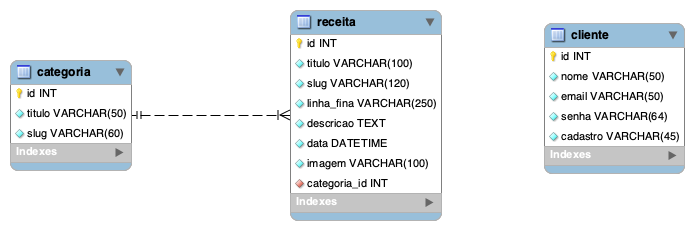
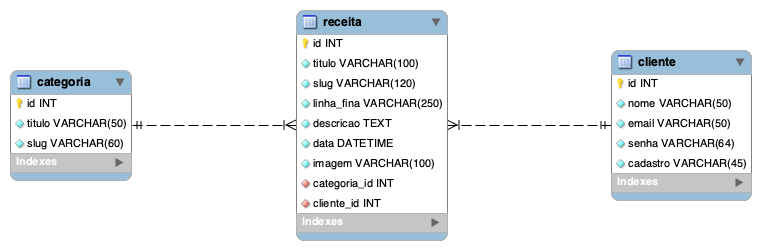
Atualizei o banco de dados e implementei a função de editar e excluir receita somente pelo cliente que publicou

Changed region(s): [[0.0, 0.0304, 0.9986, 0.9739], [0.7867, 0.0913, 0.9986, 0.3652]]

diff --git a/app/site/model/ReceitaModel.php b/app/site/model/ReceitaModel.php
@@ -16,7 +16,7 @@ class ReceitaModel {
 
     public function inserir(Receita $receita) {
 
-        $sql = 'INSERT INTO receita (titulo, slug, linha_fina, descricao, data, imagem, categoria_id) VALUES (:t, :s, :l, :d, :dt, :i, :cid)';
+        $sql = 'INSERT INTO receita (titulo, slug, linha_fina, descricao, data, imagem, categoria_id, cliente_id) VALUES (:t, :s, :l, :d, :dt, :i, :cid, :lid)';
         $params = [
             ':t' => $receita->getTitulo(),
             //':s' => gerarSlug($receita->getTitulo()),
@@ -25,7 +25,8 @@ class ReceitaModel {
             ':d' => $receita->getDescricao(),
             ':dt' => $receita->getData(),
             ':i' => $receita->getImagem(),
-            ':cid' => $receita->getCategoriaId()
+            ':cid' => $receita->getCategoriaId(),
+            ':lid' => $receita->getClienteId()
         ];
 
         if (!$this->pdo->executeNonQuery($sql, $params))
@@ -37,7 +38,7 @@ class ReceitaModel {
 
     public function alterar(Receita $receita) {
 
-        $sql = 'UPDATE receita SET titulo = :t, slug = :s, linha_fina = :l, descricao = :d, imagem = :i, categoria_id = :cid WHERE id = :id';
+        $sql = 'UPDATE receita SET titulo = :t, slug = :s, linha_fina = :l, descricao = :d, imagem = :i, categoria_id = :cid, cliente_id = :lid WHERE id = :id';
         $params = [
             ':id' => $receita->getId(),
             ':t' => $receita->getTitulo(),
@@ -45,7 +46,8 @@ class ReceitaModel {
             ':l' => $receita->getLinhaFina(),
             ':d' => $receita->getDescricao(),
             ':i' => $receita->getImagem(),
-            ':cid' => $receita->getCategoriaId()
+            ':cid' => $receita->getCategoriaId(),
+            ':lid' => $receita->getClienteId()
         ];
 
         return $this->pdo->executeNonQuery($sql, $params);
@@ -54,7 +56,7 @@ class ReceitaModel {
 
     public function lerPorId(int $receitaId) {
 
-        $sql = 'SELECT r.id, r.titulo, r.slug, r.linha_fina, r.descricao, r.data, r.imagem, r.categoria_id, c.titulo AS categoria FROM receita r INNER JOIN categoria c ON r.categoria_id = c.id WHERE r.id = :id';
+        $sql = 'SELECT r.id, r.titulo, r.slug, r.linha_fina, r.descricao, r.data, r.imagem, r.categoria_id, r.cliente_id, c.titulo AS categoria, l.nome, l.email, l.cadastro FROM receita r INNER JOIN categoria c ON r.categoria_id = c.id INNER JOIN cliente l ON l.id = r.cliente_id WHERE r.id = :id';
         $param = [
             ':id' => $receitaId
         ];
@@ -66,7 +68,7 @@ class ReceitaModel {
 
     public function lerPorSlug(string $slug) {
 
-        $sql = 'SELECT r.id, r.titulo, r.slug, r.linha_fina, r.descricao, r.data, r.imagem, r.categoria_id, c.titulo AS categoria FROM receita r INNER JOIN categoria c ON r.categoria_id = c.id WHERE r.slug = :s';
+        $sql = 'SELECT r.id, r.titulo, r.slug, r.linha_fina, r.descricao, r.data, r.imagem, r.categoria_id, r.cliente_id, c.titulo AS categoria, l.nome, l.email, l.cadastro FROM receita r INNER JOIN categoria c ON r.categoria_id = c.id INNER JOIN cliente l ON r.cliente_id = l.id WHERE r.slug = :s';
         $param = [
             ':s' => $slug
         ];
@@ -78,7 +80,7 @@ class ReceitaModel {
 
     public function lerUltimos($limit = 10) {
 
-        $sql = 'SELECT r.id, r.titulo, r.slug, r.linha_fina, r.descricao, r.data, r.imagem, r.categoria_id, c.titulo AS categoria FROM receita r INNER JOIN categoria c ON c.id = r.categoria_id ORDER BY r.data DESC LIMIT :l';
+        $sql = 'SELECT r.id, r.titulo, r.slug, r.linha_fina, r.descricao, r.data, r.imagem, r.categoria_id, r.cliente_id, c.titulo AS categoria FROM receita r INNER JOIN categoria c ON c.id = r.categoria_id ORDER BY r.data DESC LIMIT :l';
         $param = [
             ':l' => $limit
         ];
@@ -98,7 +100,7 @@ class ReceitaModel {
 
     public function lerPorCategoriaLimit(int $categoriaId, int $limit = 4) {
 
-        $sql = 'SELECT r.id, r.titulo, r.slug, r.linha_fina, r.descricao, r.data, r.imagem, r.categoria_id, c.titulo AS categoria FROM receita r INNER JOIN categoria c ON c.id = r.categoria_id WHERE r.categoria_id = :cid ORDER BY r.data DESC LIMIT :l';
+        $sql = 'SELECT r.id, r.titulo, r.slug, r.linha_fina, r.descricao, r.data, r.imagem, r.categoria_id, r.cliente_id, c.titulo AS categoria FROM receita r INNER JOIN categoria c ON c.id = r.categoria_id WHERE r.categoria_id = :cid ORDER BY r.data DESC LIMIT :l';
         $params = [
             ':cid' => $categoriaId,
             ':l' => $limit
@@ -119,7 +121,7 @@ class ReceitaModel {
 
     public function lerTodosPorCategoria(int $categoriaId) {
 
-        $sql = 'SELECT r.id, r.titulo, r.slug, r.linha_fina, r.descricao, r.data, r.imagem, r.categoria_id, c.titulo AS categoria FROM receita r INNER JOIN categoria c ON c.id = r.categoria_id WHERE r.categoria_id = :cid ORDER BY r.data DESC';
+        $sql = 'SELECT r.id, r.titulo, r.slug, r.linha_fina, r.descricao, r.data, r.imagem, r.categoria_id, r.cliente_id, c.titulo AS categoria FROM receita r INNER JOIN categoria c ON c.id = r.categoria_id WHERE r.categoria_id = :cid ORDER BY r.data DESC';
         $param = [
             ':cid' => $categoriaId
         ];
@@ -137,9 +139,29 @@ class ReceitaModel {
 
     }
 
+    public function lerTodosPorCliente(int $clienteId) {
+
+        $sql = 'SELECT r.id, r.titulo, r.slug, r.linha_fina, r.descricao, r.data, r.imagem, r.categoria_id, r.cliente_id, c.titulo AS categoria, l.nome, l.email, l.cadastro FROM receita r INNER JOIN categoria c ON c.id = r.categoria_id INNER JOIN cliente l ON l.id = r.cliente_id WHERE r.cliente_id = :lid ORDER BY r.data DESC';
+        $param = [
+            ':lid' => $clienteId
+        ];
+        $dt = $this->pdo->executeQuery($sql, $param);
+
+        $lista = [];
+
+        foreach ($dt as $dr) {
+
+            $lista[] = $this->collection($dr);
+
+        }
+
+        return $lista;
+
+    }
+
     public function pesquisar(string $termo) {
 
-        $sql = 'SELECT r.id, r.titulo, r.slug, r.linha_fina, r.descricao, r.data, r.imagem, r.categoria_id, c.titulo AS categoria FROM receita r INNER JOIN categoria c ON c.id = r.categoria_id WHERE UPPER(r.titulo) LIKE :t OR UPPER(r.linha_fina) LIKE :l ORDER BY r.titulo ASC';
+        $sql = 'SELECT r.id, r.titulo, r.slug, r.linha_fina, r.descricao, r.data, r.imagem, r.categoria_id, r.cliente_id, c.titulo AS categoria FROM receita r INNER JOIN categoria c ON c.id = r.categoria_id WHERE UPPER(r.titulo) LIKE :t OR UPPER(r.linha_fina) LIKE :l ORDER BY r.titulo ASC';
         $params = [
             ':t' => strtoupper("%". $termo . "%"), //"%{$termo}%"
             ':l' => strtoupper("%". $termo . "%") //"%{$termo}%"
@@ -160,7 +182,7 @@ class ReceitaModel {
 
     public function lerTodos() {
 
-        $sql = 'SELECT r.id, r.titulo, r.slug, r.linha_fina, r.descricao, r.data, r.imagem, r.categoria_id, c.titulo AS categoria FROM receita r INNER JOIN categoria c ON r.categoria_id = c.id ORDER BY r.titulo ASC';
+        $sql = 'SELECT r.id, r.titulo, r.slug, r.linha_fina, r.descricao, r.data, r.imagem, r.categoria_id, r.cliente_id, c.titulo AS categoria FROM receita r INNER JOIN categoria c ON r.categoria_id = c.id ORDER BY r.titulo ASC';
         $dt = $this->pdo->executeQuery($sql);
         $lista = [];
 
@@ -186,6 +208,10 @@ class ReceitaModel {
         $receita->setImagem($arr['imagem'] ?? null);
         $receita->setCategoria($arr['categoria'] ?? null);
         $receita->setCategoriaId($arr['categoria_id'] ?? null);
+        $receita->setClienteId($arr['cliente_id'] ?? null);
+        $receita->setClienteNome($arr['nome'] ?? null);
+        $receita->setClienteEmail($arr['email'] ?? null);
+        $receita->setClienteCadastro($arr['cadastro'] ?? null);
         
         return $receita;
 

diff --git a/app/site/entities/Receita.php b/app/site/entities/Receita.php
@@ -13,6 +13,10 @@ class Receita {
     private $data;
     private $imagem;
     private $categoriaId;
+    private $clienteId;
+    private $clienteNome;
+    private $clienteEmail;
+    private $clienteCadastro;
 
     // Métodos acessores e modificadores
     public function getId() {
@@ -120,6 +124,54 @@ class Receita {
     public function setCategoriaId($id) {
 
         $this->categoriaId = $id;
+    
+    }
+
+    public function getClienteId() {
+
+        return $this->clienteId;
+    
+    }
+
+    public function setClienteId($id) {
+
+        $this->clienteId = $id;
+    
+    }
+
+    public function getClienteNome() {
+
+        return $this->clienteNome;
+    
+    }
+
+    public function setClienteNome($nome) {
+
+        $this->clienteNome = $nome;
+    
+    }
+
+    public function getClienteEmail() {
+
+        return $this->clienteEmail;
+    
+    }
+
+    public function setClienteEmail($email) {
+
+        $this->clienteEmail = $email;
+    
+    }
+
+    public function getClienteCadastro() {
+
+        return $this->clienteCadastro;
+    
+    }
+
+    public function setClienteCadastro($data) {
+
+        $this->clienteCadastro = $data;
     
     }
 

diff --git a/app/site/view/receita/ver.twig.php b/app/site/view/receita/ver.twig.php
@@ -6,7 +6,7 @@
 <h1>{{receita.titulo}}</h1>
 
 <a href="{{BASE}}receita/" class="btn btn-primary">Voltar</a> 
-{% if session.Cliente %}
+{% if session.Cliente and receita.clienteId == session.Cliente.id %}
 <a href="{{BASE}}receita/editar/{{receita.id}}" class="btn btn-primary">Editar</a> 
 <a href="{{BASE}}receita/excluir/{{receita.id}}" class="btn btn-primary">Excluir</a>
 {% else %}
@@ -19,7 +19,7 @@
 <div class="row">
 
     <h5>{{receita.linhaFina}}</h5>
-    <p><em>Categoria: {{receita.categoria}}<br>Publicado em {{receita.data|date('d/m/Y H:i:s')}}</em></p>
+    <p><em>Categoria: {{receita.categoria}}<br>Publicado em {{receita.data|date('d/m/Y H:i:s')}}<br>Por: {{receita.clienteNome}} (membro desde {{receita.clienteCadastro|date('Y')}})</em></p>
     <img src="{{BASE}}img/{{receita.imagem}}" alt="{{receita.titulo}}">
     <p>{{receita.descricao|raw}}</p>
 

diff --git a/app/site/view/receita/editar.twig.php b/app/site/view/receita/editar.twig.php
@@ -32,6 +32,7 @@
                     <label for="txtTitulo" class="form-label">Título</label>
                     <input type="text" class="form-control" id="txtTitulo" name="txtTitulo" placeholder="Lorem ipsum dolor sit amet" value="{{receita.titulo}}">
                     <input type="hidden" id="txtId" value="{{receitaId}}">
+                    <input type="hidden" id="txtClienteId" value="{{clienteId}}">
                 
                 </div>
             

diff --git a/app/site/controller/ReceitaController.php b/app/site/controller/ReceitaController.php
@@ -179,6 +179,7 @@ class ReceitaController extends Controller {
         $receita->setData(getCurrentDate());
         $receita->setImagem(filter_input(INPUT_POST, 'txtImagem', FILTER_SANITIZE_STRING));
         $receita->setCategoriaId(filter_input(INPUT_POST, 'slCategoria', FILTER_SANITIZE_NUMBER_INT));
+        $receita->setClienteId(filter_input(INPUT_POST, 'txtClienteId', FILTER_SANITIZE_NUMBER_INT));
 
         return $receita;
 

diff --git a/app/site/view/receita/adicionar.twig.php b/app/site/view/receita/adicionar.twig.php
@@ -29,6 +29,7 @@
                     
                     <label for="txtTitulo" class="form-label">Título</label>
                     <input type="text" class="form-control" id="txtTitulo" name="txtTitulo" placeholder="Lorem ipsum dolor sit amet">
+                    <input type="hidden" id="txtClienteId" value="{{clienteId}}">
                 
                 </div>
             
